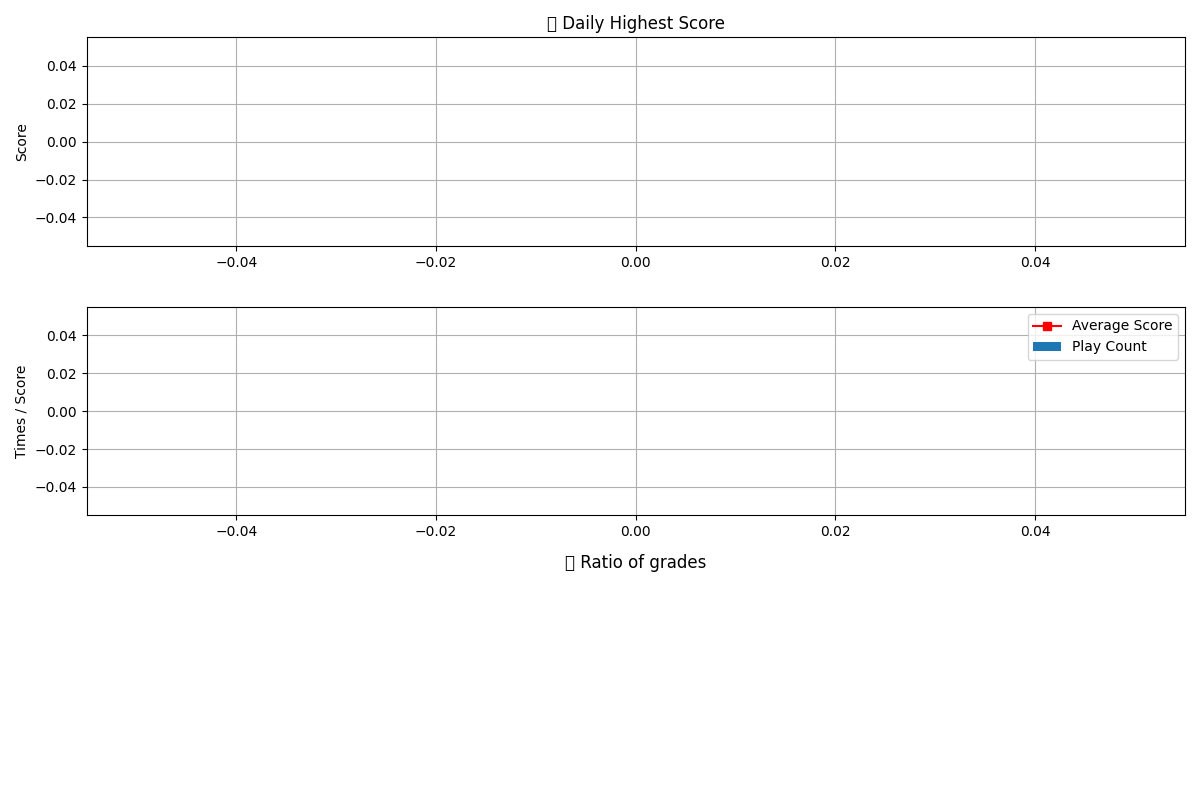
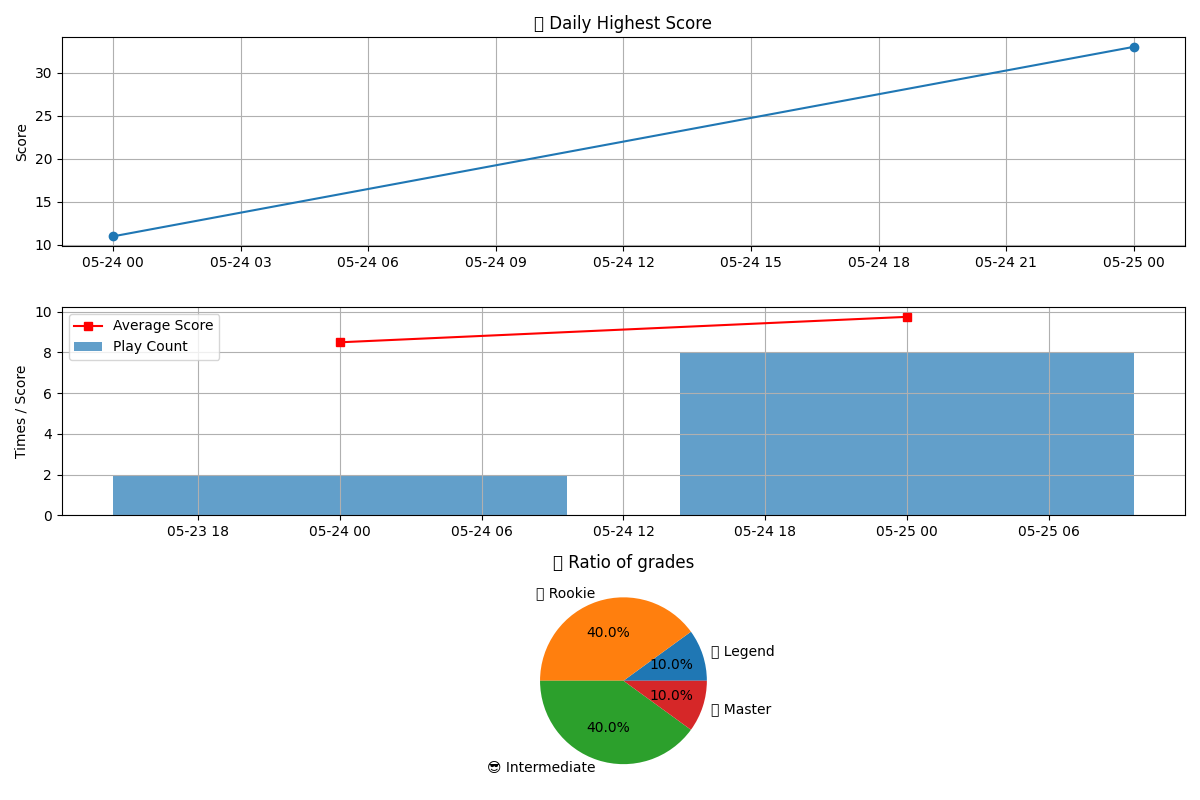
game2生成圖片正常

diff --git a/claw_machine/generate_chart.php b/claw_machine/generate_chart.php
@@ -34,7 +34,7 @@ file_put_contents(__DIR__ . '/log.txt', "[PHP] 匯出 CSV 完成\n", FILE_APPEND
 $py_script_path = realpath(__DIR__ . '/score_data.py');
 echo $py_script_path;
 if ($py_script_path && $cid) {
-    $python = "C:\\xampp\\htdocs\\database_project\\.venv\\Scripts\\python.exe";
+    $python = "C:\\Users\\clair\\AppData\\Local\\Programs\\Python\\Python311\\python.exe";
     $command = $python . " " . escapeshellarg($py_script_path) . " " . escapeshellarg($cid) . " 2>&1";
     echo $command;
     file_put_contents(__DIR__ . '/log.txt', "[CMD] $command\n", FILE_APPEND);
